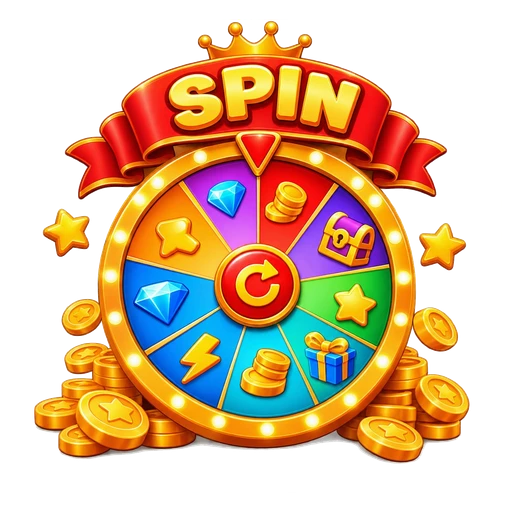
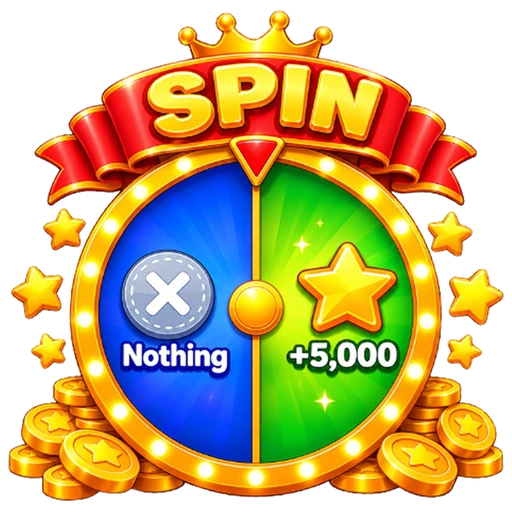
Games: new Chest and Spin pictures (backgrounds removed); balance pills get 8px left padding

diff --git a/src/components/CoinBalance.vue b/src/components/CoinBalance.vue
@@ -18,7 +18,7 @@ const coins = computed(() => user.value?.coins ?? FALLBACK_COINS)
 
 <template>
   <div
-    class="inline-flex gap-px items-center p-1 py-1.5 pe-1.5 relative z-[45] bg-[#fbe166] rounded-[50px] shadow-card"
+    class="inline-flex gap-px items-center p-1 ps-2 py-1.5 pe-1.5 relative z-[45] bg-[#fbe166] rounded-[50px] shadow-card"
   >
     <!-- the coin picture fills its whole box (the star has built-in margin), so it gets the gap itself and the same size as the star -->
     <img decoding="async" :src="CoinImage" :alt="$t('Coins')" class="w-[clamp(1.35rem,6.8vw,1.8rem)] me-[3px]" />

diff --git a/src/components/StarBalance.vue b/src/components/StarBalance.vue
@@ -17,7 +17,7 @@ const stars = computed(() => user.value?.starsBalance ?? FALLBACK_STARS)
 
 <template>
   <div
-    class="inline-flex gap-px items-center p-1 py-1.5 pe-1.5 relative z-[45] bg-[#fbe166] rounded-[50px] shadow-card"
+    class="inline-flex gap-px items-center p-1 ps-2 py-1.5 pe-1.5 relative z-[45] bg-[#fbe166] rounded-[50px] shadow-card"
   >
     <img decoding="async" :src="StarIcon" :alt="$t('Stars')" class="w-[clamp(1.35rem,6.8vw,1.8rem)]" />
     <AnimatedNumber kind="stars" :value="stars" :ready="!!user" />
